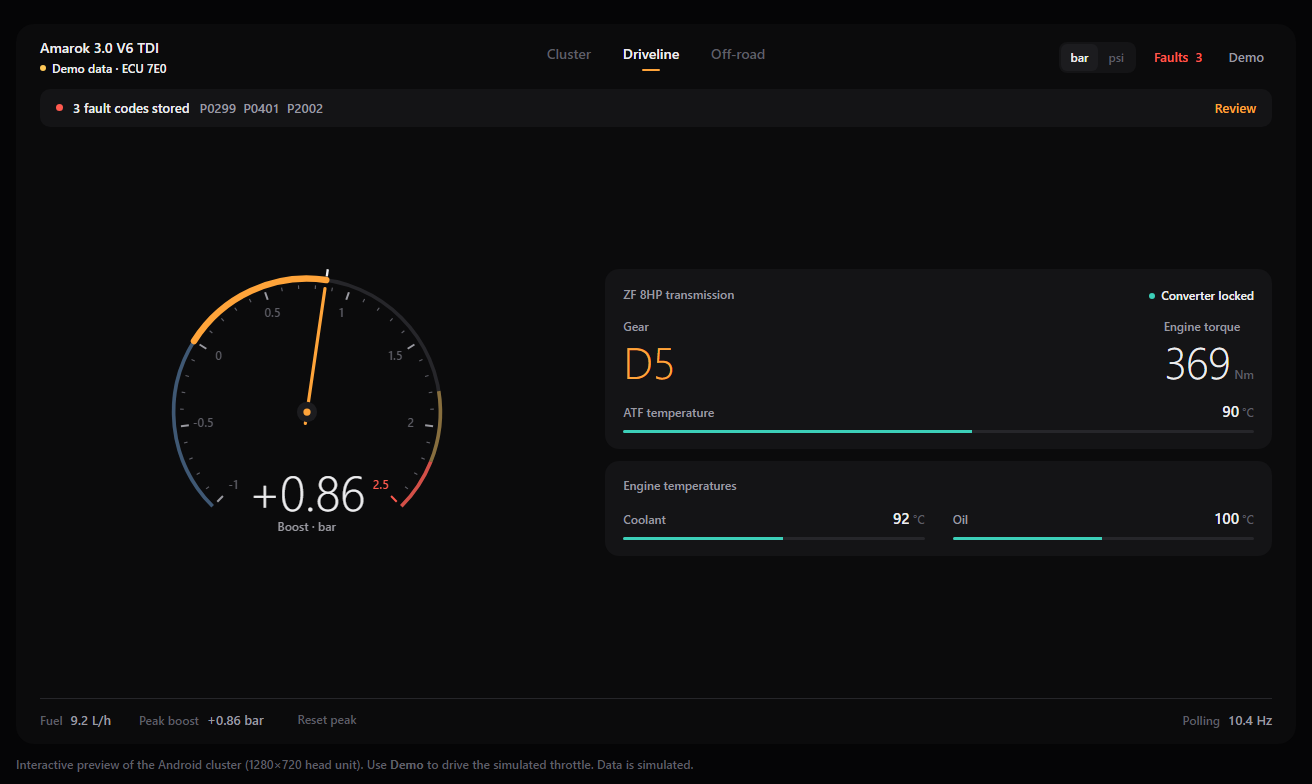
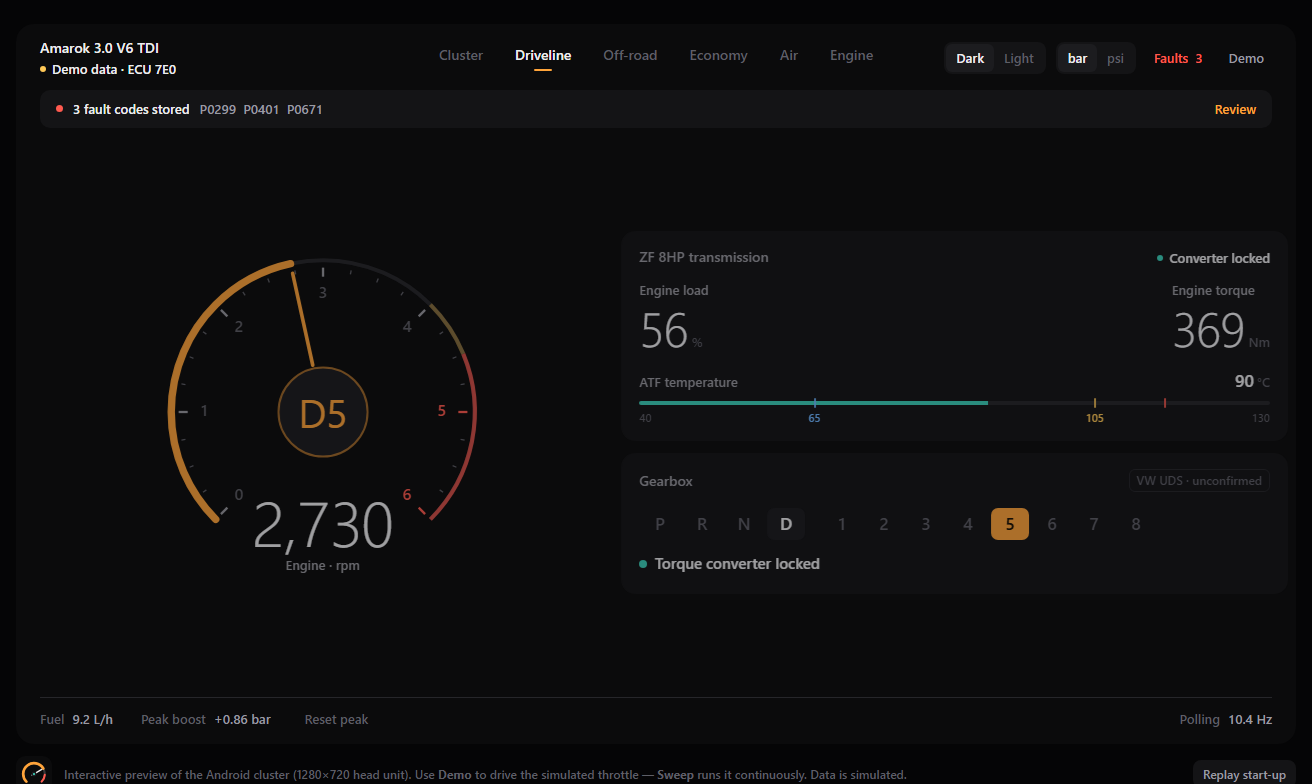
README: refresh screenshots, add Economy/Air/Engine pages, sync signal table
- Regenerate all screenshots from the mockup (now 7 pages)
- Mockup: allow ?tab=economy|air|engine deep links
- Rebuild signals table from signals.json

diff --git a/docs/mockup.html b/docs/mockup.html
@@ -1791,7 +1791,7 @@ document.getElementById('demoLink').addEventListener('click', () => {
 buildDials();
 document.getElementById('demo').hidden = true;
 const initial = new URLSearchParams(location.search).get('tab') || location.hash.slice(1);
-setView(['cluster', 'driveline', 'offroad', 'faults'].includes(initial) ? initial : 'cluster');
+setView(['cluster', 'driveline', 'offroad', 'economy', 'air', 'engine', 'faults'].includes(initial) ? initial : 'cluster');
 render();
 if (!new URLSearchParams(location.search).has('nointro')) playIntro(); else document.getElementById('intro').hidden = true;
 </script>

diff --git a/README.md b/README.md
@@ -6,8 +6,8 @@ Kotlin · Jetpack Compose · custom Canvas gauges · read-only by design
 
 ![Cluster](docs/screenshots/01_turbo_cluster.png)
 
-> **Status — milestone M1.** The UI is complete and runs on simulated data (use **Demo** in the header to drive the throttle). The BLE adapter transport is stubbed and lands in M3.
-> Try it in a browser first: open [`docs/mockup.html`](docs/mockup.html) — it mirrors the Android screens.
+> **Status — milestone M1 (v0.4.1).** Six pages are complete and run on simulated data (use **Demo** in the header to drive the throttle). The OBD polling pipeline (ELM327 driver, ISO-TP, poll scheduler) is built and tested against a mock adapter; the BLE transport lands in M3.
+> Try it in a browser first: open [`docs/mockup.html`](docs/mockup.html) — it mirrors the Android screens (add `?tab=economy`, `air` or `engine` to jump to a page).
 
 ---
 
@@ -60,6 +60,37 @@ The main screen (shown at the top): three primary dials, three sub-dials and fou
 
 > Per-wheel slip, rear-lock state and torque split are simulated in M1; their UDS identifiers are not yet in `signals.json`.
 
+### Economy
+
+![Economy](docs/screenshots/05_economy.png)
+
+- **Consumption now** — arc gauge in L/100 km (0 – 30) with the trip average marked.
+- **Last 30 seconds** — rolling bar history against the trip average.
+- **Fuel** — tank level, estimated range and litres remaining.
+- **This trip** — distance, time, average, average speed, fuel used and idle time. **Reset** starts a new trip.
+
+### Air
+
+![Air](docs/screenshots/06_air.png)
+
+- **Air path** — animated flow from outside air through MAF, turbo, intercooler and manifold to the engine, coloured by temperature.
+- **Altitude** — estimated from the barometer, with barometric pressure and air density versus sea level.
+- **Outside** — ambient temperature and heat soak (intake air against outside air).
+- **Airflow health** — a 0 – 100 score comparing measured MAF to expected, plus boost versus target and charge-air temperature.
+
+> Compressor-out temperature is estimated, and the expected-MAF figure needs a VW UDS identifier that isn't confirmed yet.
+
+### Engine
+
+![Engine](docs/screenshots/07_engine.png)
+
+- **Cylinders** — V6 layout with per-cylinder injector correction (mg/stroke) and a balance chart; amber and red as a cylinder drifts from the others.
+- **Glow system** — per-plug resistance, open-circuit detection and heater phase.
+- **Common rail** — pressure against target (0 – 2,000 bar).
+- **EGR valve** — percent open, with a butterfly-valve symbol that rotates as it opens.
+
+> Injector corrections and glow-plug resistance come from VW UDS identifiers that are unconfirmed; the page shows them as unavailable until the ECU answers.
+
 ### Fault codes
 
 ![Fault codes](docs/screenshots/04_dtc_diagnostics.png)
@@ -100,27 +131,32 @@ Defined in [`app/src/main/assets/signals.json`](app/src/main/assets/signals.json
 
 | ID | Signal | ECU | Svc | PID / DID | Formula | Unit | Range | Verified |
 |---|---|---|---|---|---|---|---|:---:|
-| `rpm` | Engine speed | 7E0 | 01 | 0C | `((A*256)+B)/4` | rpm | 0 – 5000 | ✓ |
-| `vehicle_speed` | Vehicle speed | 7E0 | 01 | 0D | `A` | km/h | 0 – 200 | ✓ |
+| `rpm` | Engine speed | 7E0 | 01 | 0C | `((A*256)+B)/4` | rpm | 0 – 6000 | ✓ |
+| `vehicle_speed` | Speed | 7E0 | 01 | 0D | `A` | km/h | 0 – 220 | ✓ |
+| `boost_actual` | Manifold pressure | 7E0 | 01 | 0B | `A` | kPa abs | 0 – 255 | ✓ |
+| `boost_target` | Boost target | 7E0 | 01 | 70 | `((B*256)+C)*0.03125` | kPa abs | 0 – 400 | – |
+| `engine_torque` | Engine torque | 7E0 | 01 | 62 | `(A-125)*5.8` | Nm | 0 – 700 | – |
 | `engine_load` | Engine load | 7E0 | 01 | 04 | `A*100/255` | % | 0 – 100 | ✓ |
-| `coolant_temp` | Coolant | 7E0 | 01 | 05 | `A-40` | °C | −40 – 130 | ✓ |
-| `intake_air_temp` | Intake air | 7E0 | 01 | 0F | `A-40` | °C | −40 – 100 | ✓ |
-| `oil_temp` | Engine oil | 7E0 | 01 | 5C | `A-40` | °C | −40 – 160 | ✓ |
-| `battery_voltage` | Battery | 7E0 | 01 | 42 | `((A*256)+B)/1000` | V | 10 – 16 | ✓ |
+| `maf` | Mass airflow | 7E0 | 01 | 10 | `((A*256)+B)/100` | g/s | 0 – 400 | ✓ |
+| `turbo_vgt` | VGT vane position | 7E0 | 01 | 71 | `C*100/255` | % | 0 – 100 | – |
+| `egt_pre_turbo` | EGT pre-turbo | 7E0 | 01 | 78 | `((B*256)+C)/10-40` | °C | 0 – 1000 | ✓ |
 | `fuel_rate` | Fuel rate | 7E0 | 01 | 5E | `((A*256)+B)*0.05` | L/h | 0 – 50 | ✓ |
-| `boost_actual` | Boost, actual | 7E0 | 01 | 6F | `B` | kPa abs | 0 – 400 | ✓ |
-| `boost_target` | Boost, target | 7E0 | 01 | 70 | `B` | kPa abs | 0 – 400 | – |
-| `egt_pre_turbo` | EGT pre-turbo | 7E0 | 01 | 78 | `((C*256)+D)*0.1-40` | °C | 0 – 1000 | ✓ |
+| `coolant_temp` | Coolant | 7E0 | 01 | 05 | `A-40` | °C | −40 – 130 | ✓ |
+| `oil_temp` | Oil | 7E0 | 01 | 5C | `A-40` | °C | −40 – 160 | ✓ |
+| `intake_air_temp` | Intake air | 7E0 | 01 | 0F | `A-40` | °C | −40 – 100 | ✓ |
 | `charge_air_temp` | Charge air | 7E0 | 01 | 77 | `B-40` | °C | −20 – 120 | ✓ |
-| `turbo_vgt_duty` | VGT vane position | 7E0 | 01 | 7D | `A*100/255` | % | 0 – 100 | – |
-| `engine_torque` | Engine torque | 7E0 | 01 | 62 | `((A*256)+B)-500` | Nm | 0 – 750 | ✓ |
-| `trans_fluid_temp` | ATF temperature | 7E1 | 22 | 11A8 | `A-40` | °C | 0 – 150 | ✓ |
-| `trans_gear` | Gear | 7E1 | 22 | 1002 | `A` | — | 1 – 8 | ✓ |
-| `trans_lockup` | Converter lockup | 7E1 | 22 | 1003 | `A` | state | 0 – 2 | ✓ |
-| `steering_angle` | Steering angle | 7E2 | 22 | 0250 | `((A*256)+B)*0.1-540` | ° | −540 – 540 | ✓ |
-| `wheel_slip` | Wheel slip | 7E2 | 22 | 0251 | `A*0.5` | % | 0 – 50 | ✓ |
-| `pitch_angle` | Pitch | 7E2 | 22 | 0252 | `A-45` | ° | −45 – 45 | ✓ |
-| `roll_angle` | Roll | 7E2 | 22 | 0253 | `A-45` | ° | −45 – 45 | ✓ |
+| `battery_voltage` | Battery | 7E0 | 01 | 42 | `((A*256)+B)/1000` | V | 10 – 16 | ✓ |
+| `fuel_level` | Fuel level | 7E0 | 01 | 2F | `A*100/255` | % | 0 – 100 | – |
+| `baro` | Barometer | 7E0 | 01 | 33 | `A` | kPa | 50 – 110 | ✓ |
+| `ambient_temp` | Ambient | 7E0 | 01 | 46 | `A-40` | °C | −40 – 60 | – |
+| `fuel_rail` | Fuel rail pressure | 7E0 | 01 | 23 | `((A*256)+B)/10` | bar | 0 – 2000 | ✓ |
+| `egr_commanded` | EGR commanded | 7E0 | 01 | 2C | `A*100/255` | % | 0 – 100 | ✓ |
+| `trans_fluid_temp` | ATF temperature | 7E1 | 22 | 11A8 | `A-40` | °C | 0 – 150 | – |
+| `trans_gear` | Current gear | 7E1 | 22 | 1002 | `A` | gear | 1 – 8 | – |
+| `trans_lockup` | Converter lockup | 7E1 | 22 | 1003 | `A` | state | 0 – 2 | – |
+| `steering_angle` | Steering angle | 7E2 | 22 | 0250 | `((A*256)+B)*0.1-540` | ° | −540 – 540 | – |
+| `pitch_angle` | Pitch | 7E2 | 22 | 0252 | `A-45` | ° | −45 – 45 | – |
+| `roll_angle` | Roll | 7E2 | 22 | 0253 | `A-45` | ° | −45 – 45 | – |
 
 Signals marked – haven't been confirmed on a real ECU yet.
 
